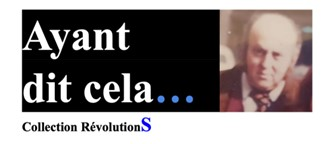
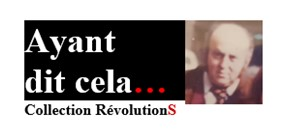
MAJ

diff --git a/style.css b/style.css
@@ -615,8 +615,8 @@ h5 {
 
 /*Ayant*/
 .boutonJoinAyant {
-    color:rgba(254, 0, 255, 1);
-    border: 1px solid rgba(254, 0, 255, 1);
+    color:rgba(244, 0, 4, 1);
+    border: 1px solid rgba(244, 0, 4, 1);
     background: none;
     border-radius: 8px;
     font-size: 1.3em;
@@ -626,13 +626,13 @@ h5 {
 }
 
 .boutonJoinAyant:hover {
-    background: rgba(254, 0, 255, 1);
+    background: rgba(244, 0, 4, 1);
     color: white;
     cursor: pointer;
 }
 
 .ayant {
-    color: rgba(254, 0, 255, 1);
+    color: rgba(244, 0, 4, 1);
     justify-content: center;
 }
 
